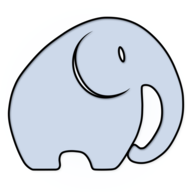
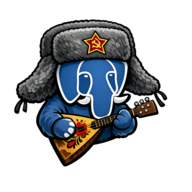
feat: фавиконка из логотипа + фиксация цитат лидеров
- Сгенерированы favicon.ico, icon-192x192, icon-512x512, apple-touch-icon, maskable_icon из логотипа (слоник в ушанке)
- Цитаты лидеров теперь захардкожены и не меняются при смене языка
- Цитата Путина заменена на нейтральную: «PostgreSQL — надёжная база данных, проверенная временем.»
- Удалены неиспользуемые putinQuote/medvedevQuote из переводов

diff --git a/src/common/components/languageContext/index.jsx b/src/common/components/languageContext/index.jsx
@@ -18,8 +18,6 @@ const translations = {
     copied: 'Скопировано!',
     result: 'Результат конфигурации',
     leadersTitle: 'Наши лидеры одобряют',
-    putinQuote: 'Эта конфигурация PostgreSQL стабильна, как наша экономика.',
-    medvedevQuote: 'Я перевёл все iPad-ы на PostgreSQL',
     footer: 'Сделано в России с любовью к базам данных',
     disclaimer:
       'Сайт носит сатирический/пародийный характер. Приведённые высказывания являются художественным вымыслом и не являются реальными цитатами.',
@@ -105,9 +103,6 @@ const translations = {
     copied: 'Успешно экспортировано!',
     result: 'Результирующая конфигурация',
     leadersTitle: 'Рекомендовано руководством',
-    putinQuote:
-      'Данная конфигурация PostgreSQL демонстрирует стабильность, сопоставимую с нашей экономической моделью.',
-    medvedevQuote: 'Я перевёл все iPad-ы на PostgreSQL',
     footer: 'Произведено в Российской Федерации. Все права защищены.',
     disclaimer:
       'Данный ресурс носит исключительно сатирический/пародийный характер. Все приведённые высказывания являются художественным вымыслом и не являются реальными цитатами.',
@@ -193,8 +188,6 @@ const translations = {
     copied: 'Скопировал, красава!',
     result: 'Вот тебе конфиг, держи',
     leadersTitle: 'Пацаны одобряют',
-    putinQuote: 'Нормальный конфиг, чётко всё работает, базара нет.',
-    medvedevQuote: 'Я перевёл все iPad-ы на PostgreSQL',
     footer: 'Сделано в России, без базара',
     disclaimer:
       'Короче, это всё шутка, пацаны. Цитаты выдуманные, никто такого не говорил, базара нет.',
@@ -278,8 +271,6 @@ const translations = {
     copied: 'О! Скопировалось! Наливай!',
     result: 'Вот... смотри что вышло',
     leadersTitle: 'За наших лидеров! Третий тост!',
-    putinQuote: 'Этот конфиг... он как наша экономика... стабильный... ик...',
-    medvedevQuote: 'Я перевёл все iPad-ы на PostgreSQL',
     footer: 'Сделано в России... с любовью... и не только',
     disclaimer:
       'Это всё... шутка... ик. Цитаты выдуманные... никто такого не говорил... наверное...',
@@ -363,8 +354,6 @@ const translations = {
     copied: 'Скопировала! Пирожки будешь?',
     result: 'Вот, внучок, получилось!',
     leadersTitle: 'Наши уважаемые руководители',
-    putinQuote: 'Хороший конфиг, надёжный, как раньше делали.',
-    medvedevQuote: 'Я перевёл все iPad-ы на PostgreSQL',
     footer: 'Сделано в России, с бабушкиной любовью',
     disclaimer:
       'Внучок, это всё шутка, не переживай. Цитаты выдуманные, никто такого не говорил, родненький.',

diff --git a/src/common/components/leadersSection/index.jsx b/src/common/components/leadersSection/index.jsx
@@ -15,13 +15,13 @@ const LeadersSection = () => {
     {
       name: 'В. Путин',
       role: 'Президент РФ',
-      quote: t.putinQuote,
+      quote: 'PostgreSQL — надёжная база данных, проверенная временем.',
       img: putinImg
     },
     {
       name: 'Д. Медведев',
       role: 'Зам. председателя Совбеза',
-      quote: t.medvedevQuote,
+      quote: 'Я перевёл все iPad-ы на PostgreSQL',
       img: medvedevImg
     },
     {
